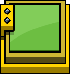
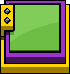
improved queuing maintain ingredient craft orders
more craft ui adjustments

Changed region(s): [[0.0857, 0.0, 0.9429, 0.8649], [0.1714, 0.4054, 0.2, 0.4324]]

diff --git a/ui/game/show_workshop/show_team_workshop.less b/ui/game/show_workshop/show_team_workshop.less
@@ -68,9 +68,9 @@
    #maintainOrderListBar {
       position: absolute;
       top: 0px;
-      left: 1188px;
+      left: 1138px;
       height: 900px;
-      width: 100px;
+      width: 200px;
       background-position: -1201px 0px;
    }
 
